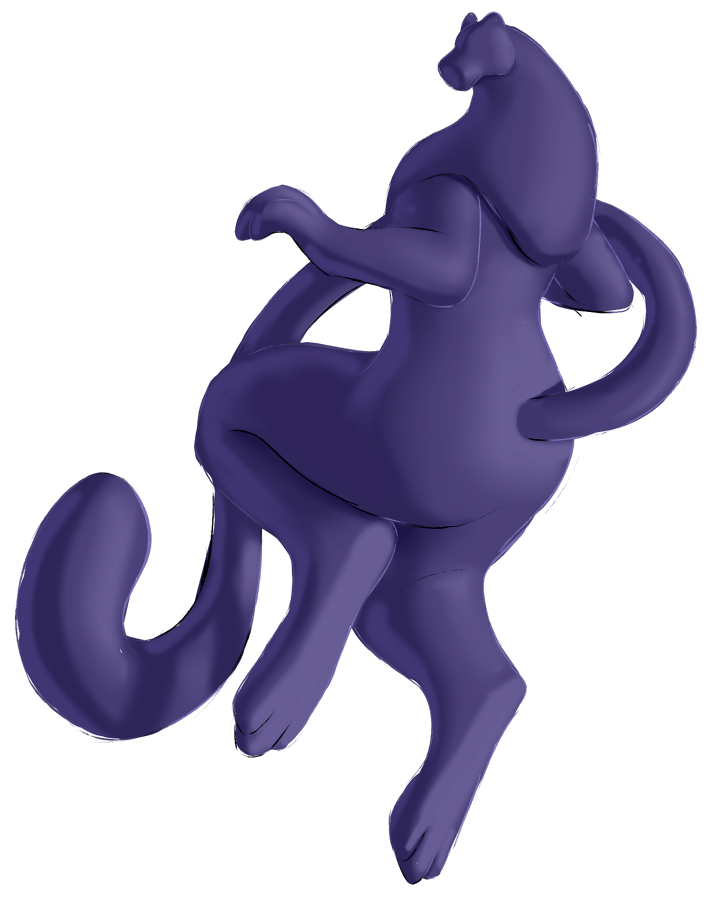
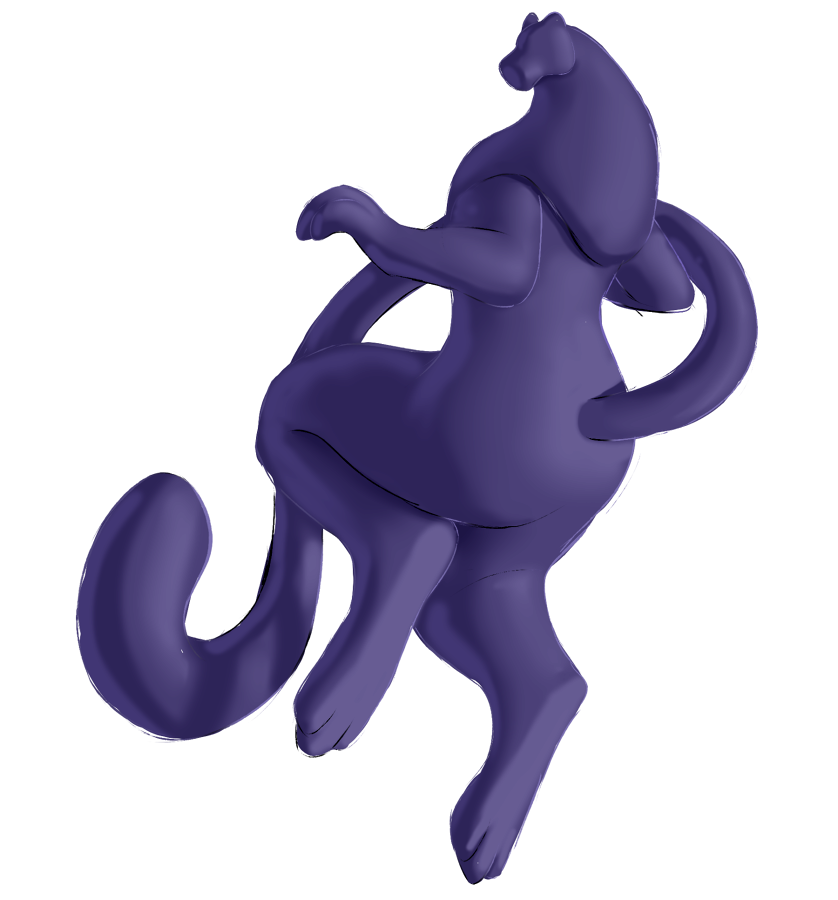
THE FINAL IMAGE
-THE FINAL IMAGE HAS BEEN ADDED (before release)
-Also I feel okay about it BUT STILL

diff --git a/src/Pages/Guarians/Tabs/KnownGuarians/Guarians/panthuar/panthuar.tsx b/src/Pages/Guarians/Tabs/KnownGuarians/Guarians/panthuar/panthuar.tsx
@@ -5,6 +5,7 @@ import emblem from "./images/emblem.png";
 import listEmblem from "./images/emblemSide.png";
 import listIcon from "./images/icon.png";
 import matteRef from "./images/panthuarMatte.png";
+import inflatableRef from "./images/inflatable.png";
 
 export const panthuar: GuarianInfo = {
   name: "Panthuar",
@@ -51,7 +52,11 @@ export const panthuar: GuarianInfo = {
         material: GuarianMaterial.Matte,
         ref: matteRef,
       },
+      {
+        material: GuarianMaterial.Inflatable,
+        ref: inflatableRef,
+      },
     ],
-    maxRefWidth: 716,
+    maxRefWidth: 838,
   },
 };
